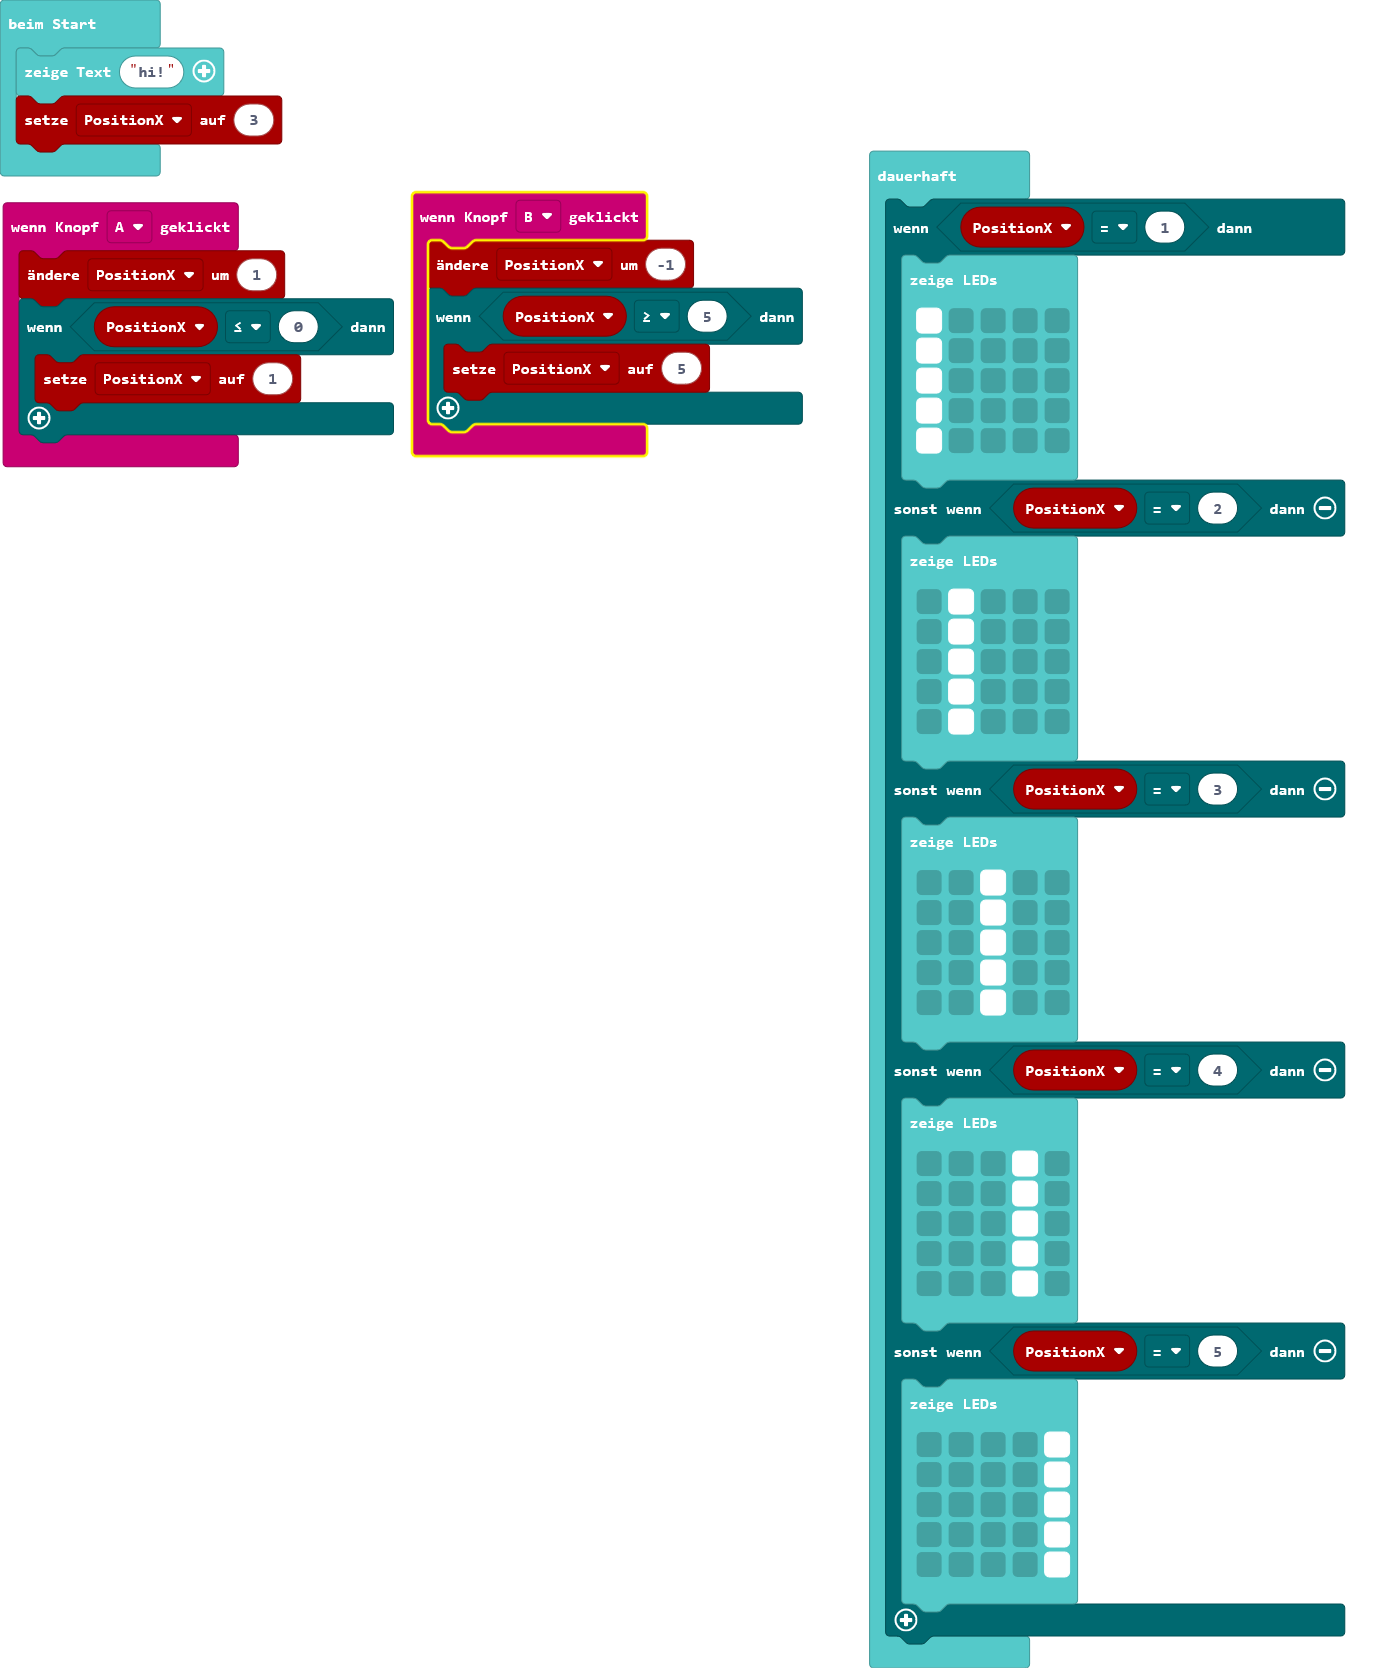
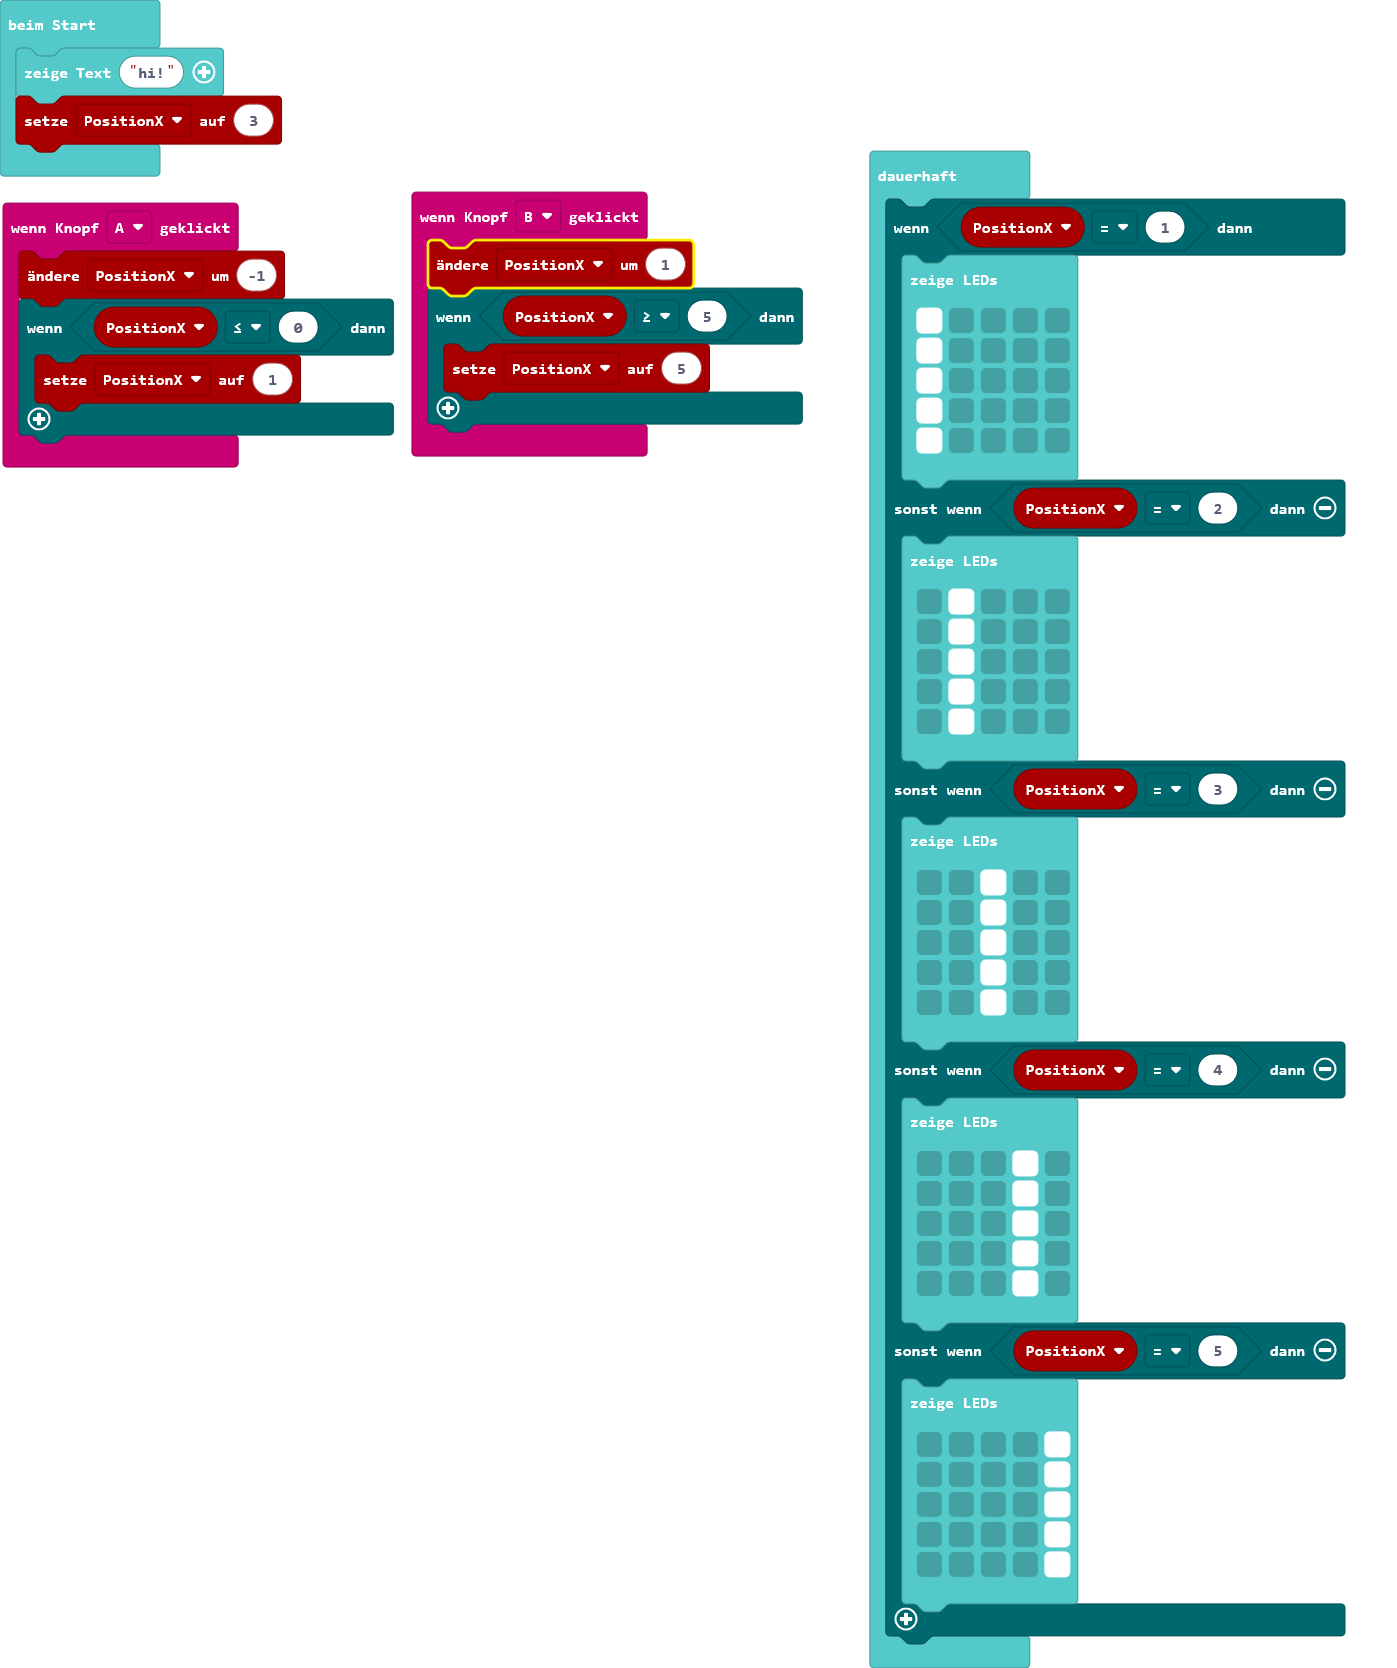
Aktualisiere pxt.json, main.blocks, main.ts, main.py

diff --git a/main.ts b/main.ts
@@ -1,11 +1,11 @@
 input.onButtonPressed(Button.A, function () {
-    PositionX += 1
+    PositionX += -1
     if (PositionX <= 0) {
         PositionX = 1
     }
 })
 input.onButtonPressed(Button.B, function () {
-    PositionX += -1
+    PositionX += 1
     if (PositionX >= 5) {
         PositionX = 5
     }

diff --git a/main.py b/main.py
@@ -1,0 +1,60 @@
+def on_button_pressed_a():
+    global PositionX
+    PositionX += 1
+    if PositionX <= 0:
+        PositionX = 1
+input.on_button_pressed(Button.A, on_button_pressed_a)
+
+def on_button_pressed_b():
+    global PositionX
+    PositionX += -1
+    if PositionX >= 5:
+        PositionX = 5
+input.on_button_pressed(Button.B, on_button_pressed_b)
+
+PositionX = 0
+basic.show_string("hi!")
+PositionX = 3
+
+def on_forever():
+    if PositionX == 1:
+        basic.show_leds("""
+            # . . . .
+            # . . . .
+            # . . . .
+            # . . . .
+            # . . . .
+            """)
+    elif PositionX == 2:
+        basic.show_leds("""
+            . # . . .
+            . # . . .
+            . # . . .
+            . # . . .
+            . # . . .
+            """)
+    elif PositionX == 3:
+        basic.show_leds("""
+            . . # . .
+            . . # . .
+            . . # . .
+            . . # . .
+            . . # . .
+            """)
+    elif PositionX == 4:
+        basic.show_leds("""
+            . . . # .
+            . . . # .
+            . . . # .
+            . . . # .
+            . . . # .
+            """)
+    elif PositionX == 5:
+        basic.show_leds("""
+            . . . . #
+            . . . . #
+            . . . . #
+            . . . . #
+            . . . . #
+            """)
+basic.forever(on_forever)
